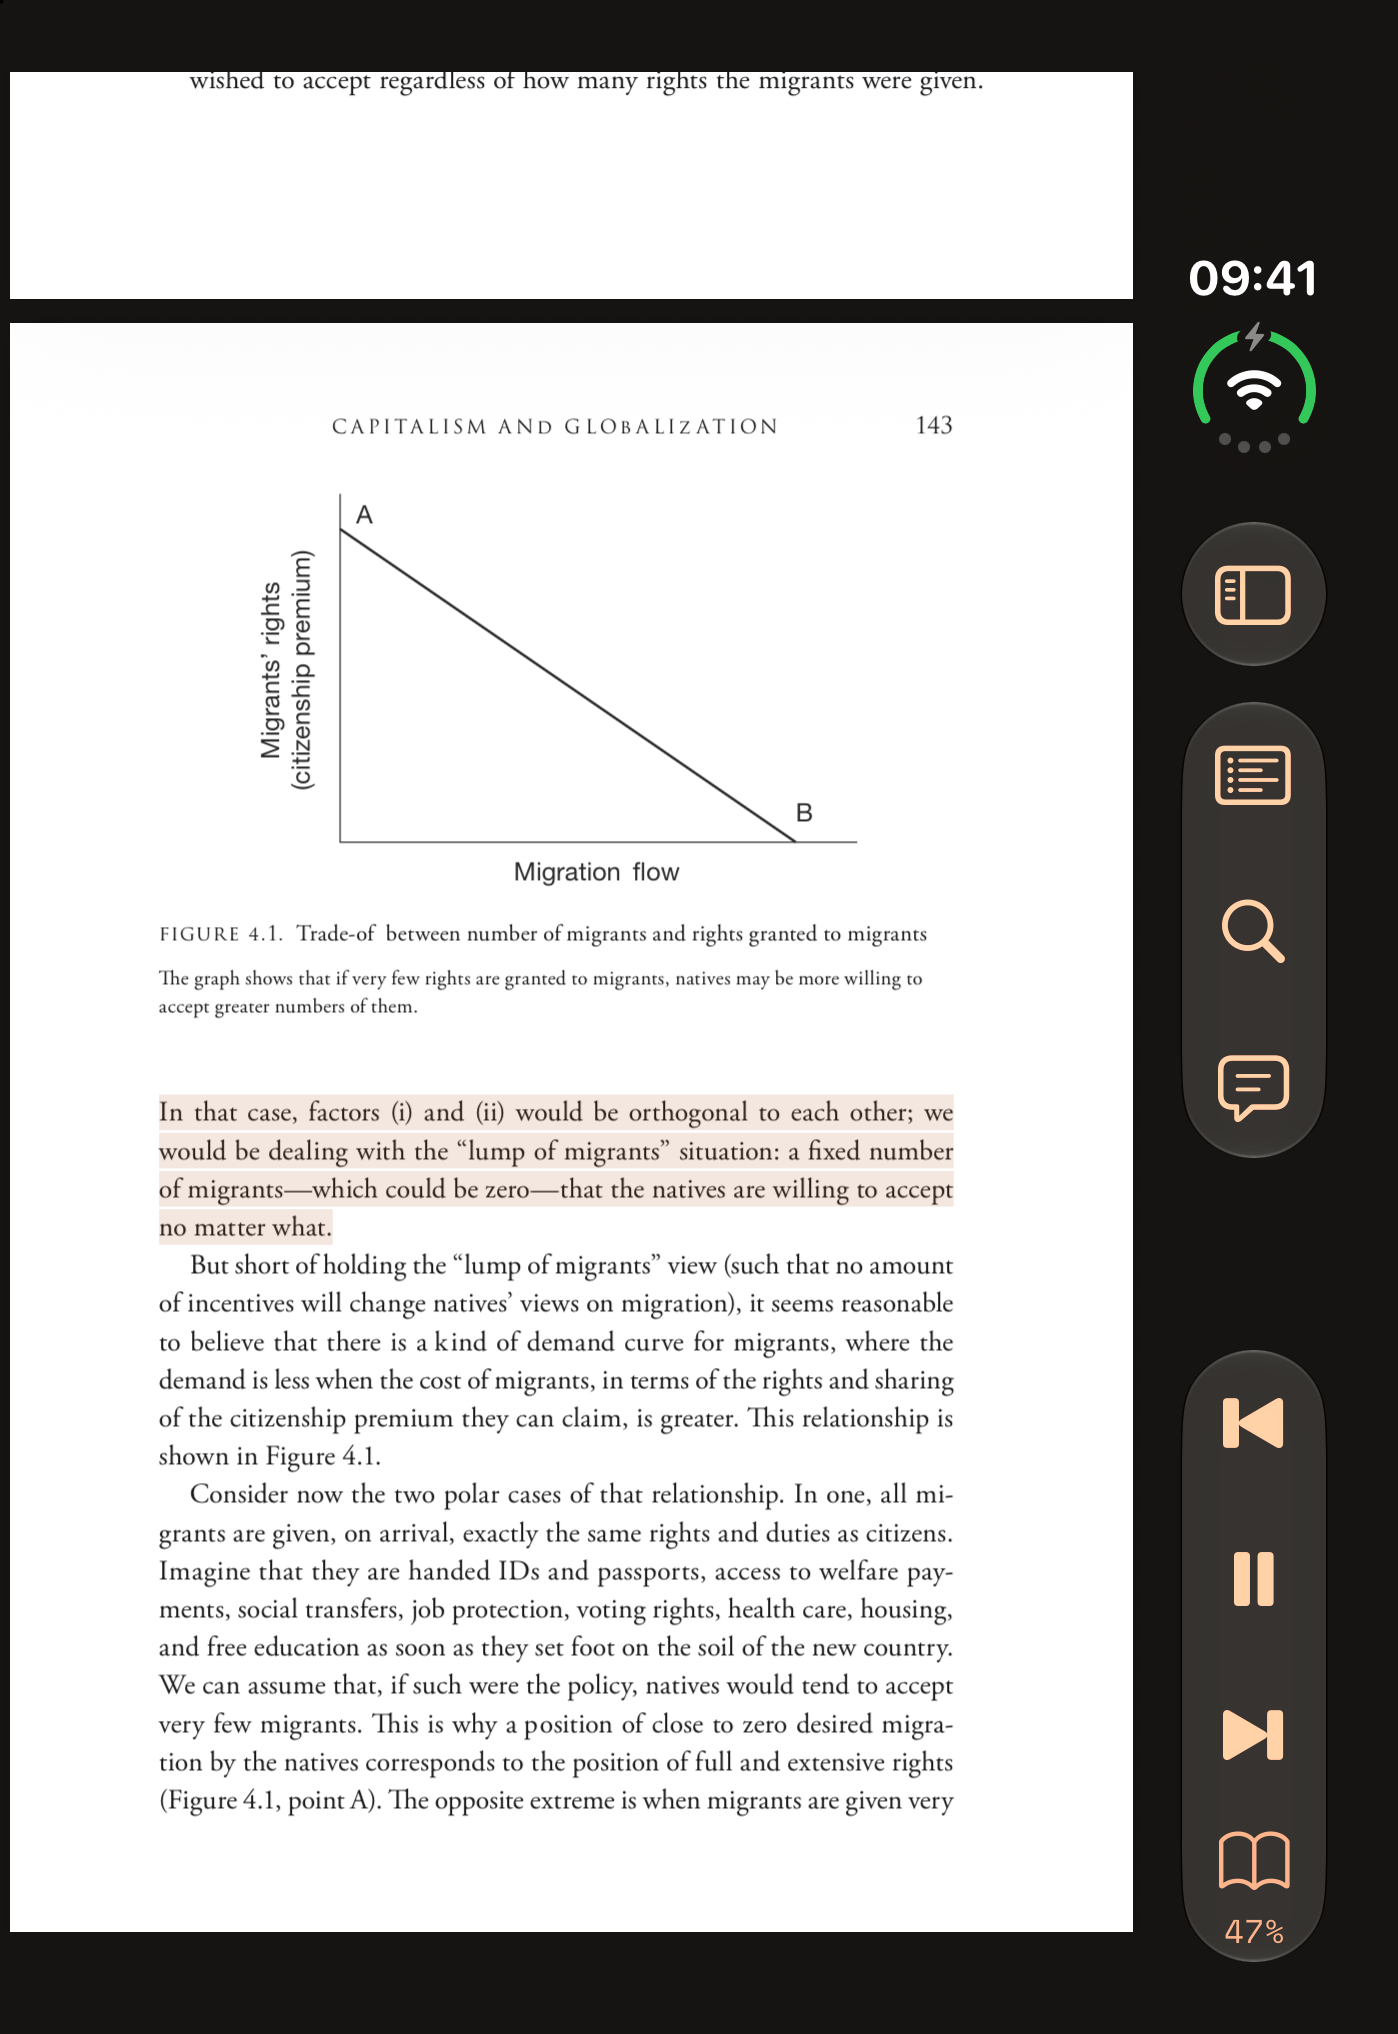
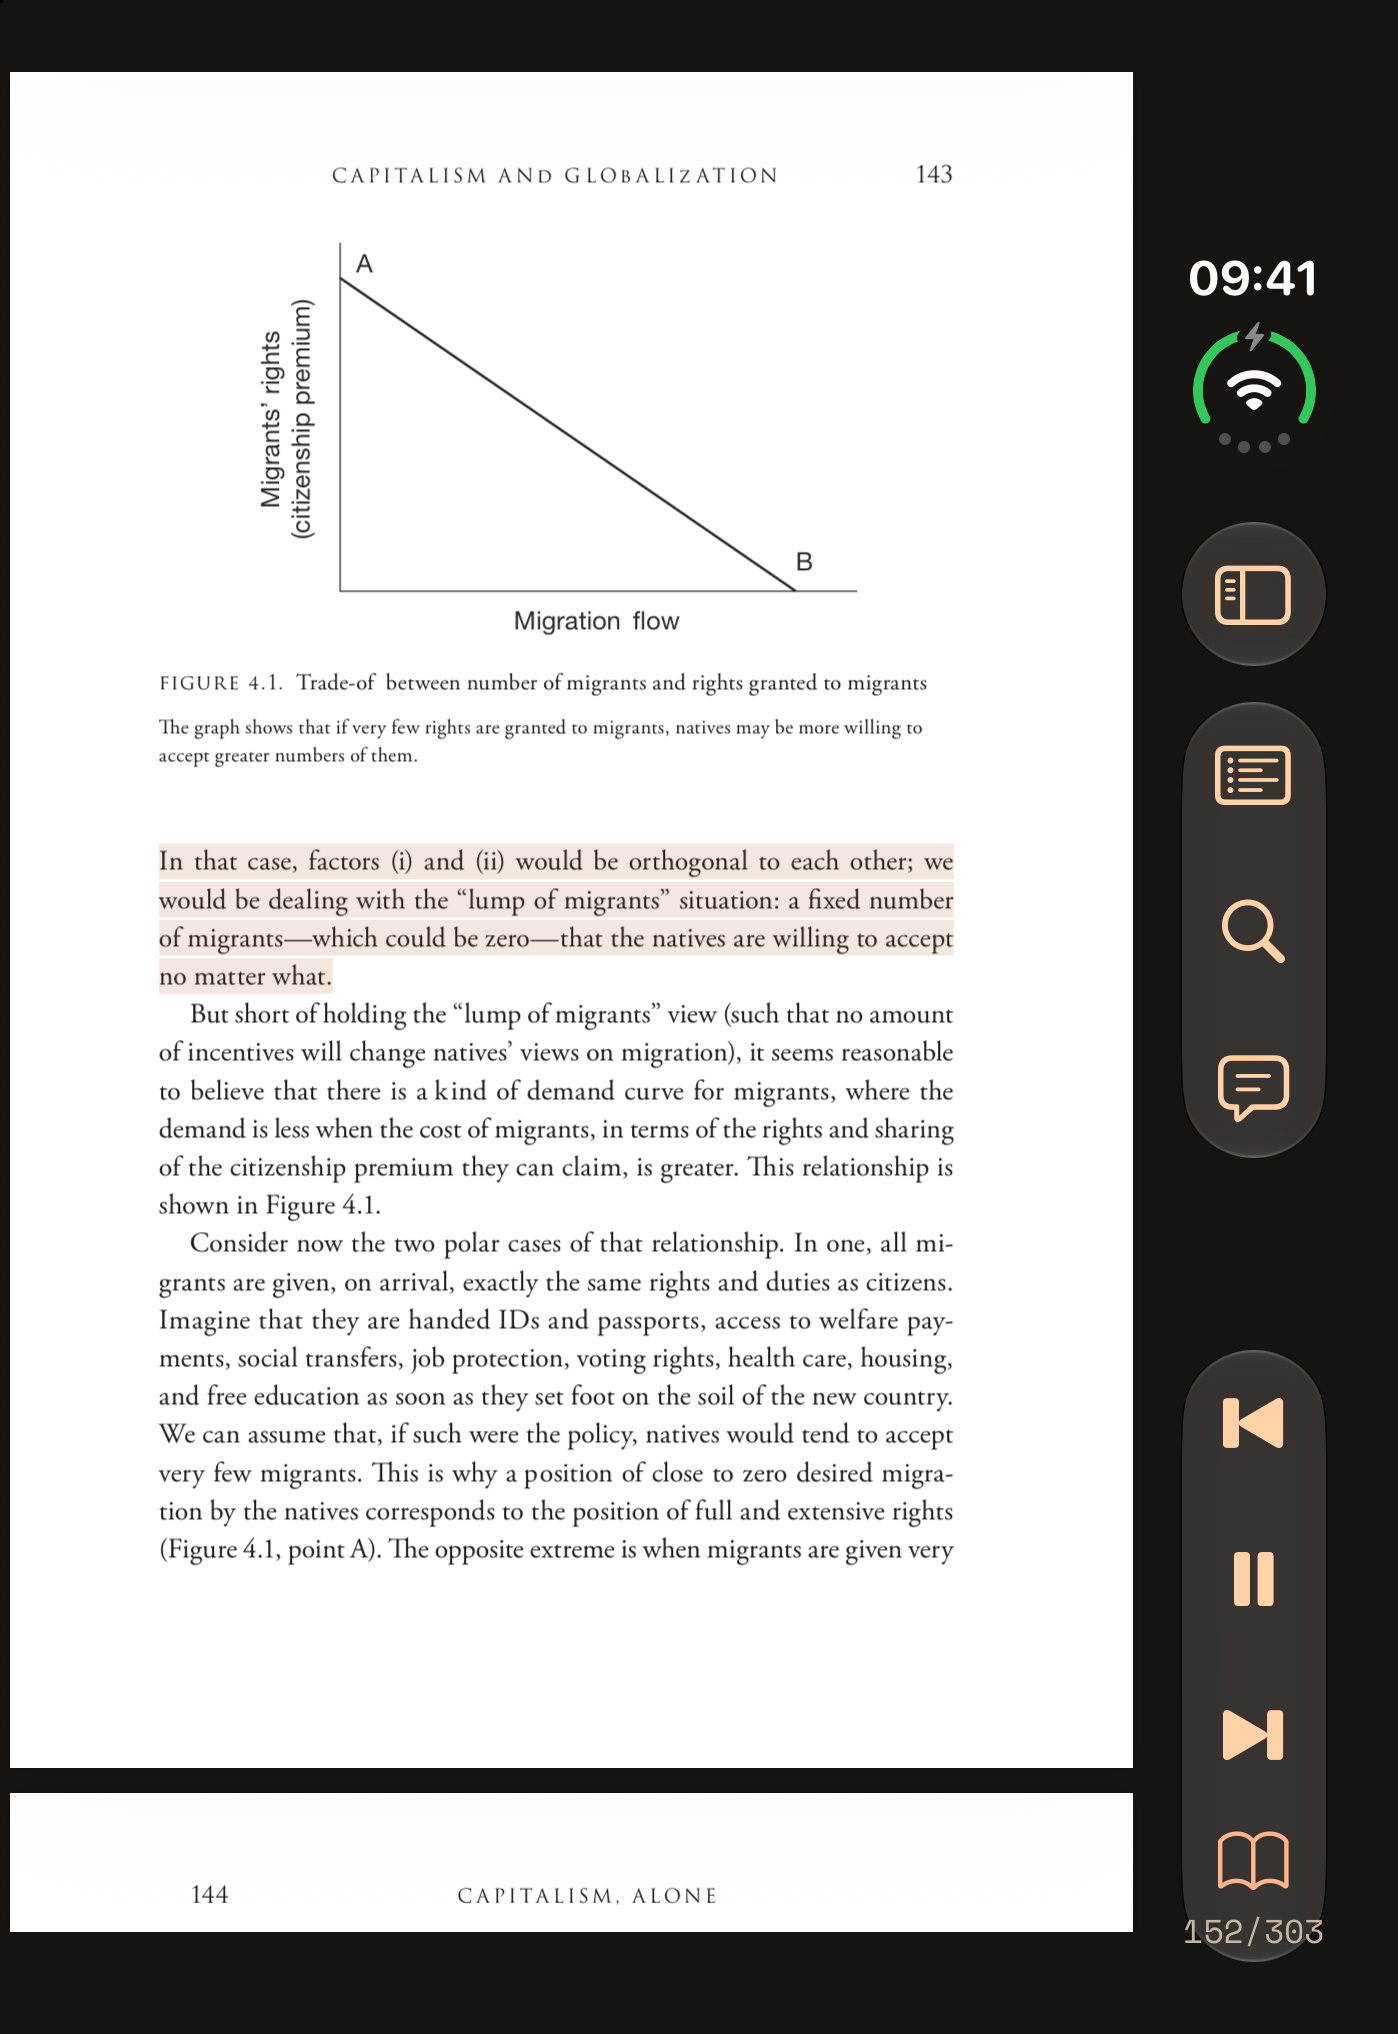
Refresh Duo screenshots with visible page indicators

diff --git a/README.md b/README.md
@@ -11,12 +11,6 @@ A listening-first PDF reader for Android and iOS. Listen with downloaded voices,
 
 ## Screenshots
 
-| Reader · light | Reader · dark |
-| --- | --- |
-| <a href="docs/screenshots/ios-reader-light.png"><img src="docs/screenshots/ios-reader-light.png" width="320" alt="Rhapsodos in light mode, showing Alice in Wonderland with narration highlighting and playback controls"></a> | <a href="docs/screenshots/ios-reader-dark.png"><img src="docs/screenshots/ios-reader-dark.png" width="320" alt="Rhapsodos in dark mode, showing the same original PDF page with narration highlighting and playback controls"></a> |
-
-Actual iOS app captures with narration highlighting, using a typeset public-domain excerpt from [Alice's Adventures in Wonderland](https://www.gutenberg.org/ebooks/11). The PDF retains its original page colours in both themes. Select an image to view it at full resolution.
-
 | Duo folded · portrait light | Duo folded · portrait dark |
 | --- | --- |
 | <a href="docs/screenshots/ios-duo-folded-reader-light.png"><img src="docs/screenshots/ios-duo-folded-reader-light.png" width="320" alt="Rhapsodos on folded iPhone Duo in light portrait mode, reading midway through Capitalism, Alone"></a> | <a href="docs/screenshots/ios-duo-folded-reader-dark.png"><img src="docs/screenshots/ios-duo-folded-reader-dark.png" width="320" alt="Rhapsodos on folded iPhone Duo in dark portrait mode with narration highlighting and playback controls"></a> |
@@ -33,7 +27,7 @@ Actual iOS app captures with narration highlighting, using a typeset public-doma
 | --- | --- |
 | <a href="docs/screenshots/ios-duo-landscape-light.png"><img src="docs/screenshots/ios-duo-landscape-light.png" width="480" alt="Rhapsodos in landscape on iPhone Duo with navigation and playback in the native side rail"></a> | <a href="docs/screenshots/ios-duo-landscape-dark.png"><img src="docs/screenshots/ios-duo-landscape-dark.png" width="480" alt="Rhapsodos in dark landscape on iPhone Duo with its original PDF and native side rail"></a> |
 
-iPhone Duo simulator captures of mid-book reading in *Capitalism, Alone* by Branko Milanovic. Navigation and playback use the native side rail on the folded display and in unfolded landscape. Unfolded portrait keeps the bottom player. The book/progress button opens speed, volume, seeking and document details.
+iPhone Duo simulator captures of mid-book reading in *Capitalism, Alone* by Branko Milanovic. Navigation and playback use the native side rail on the folded display and in unfolded landscape. Unfolded portrait keeps the bottom player. The book/page button opens speed, volume and document details. A small page/total label follows the visible PDF page.
 
 ## Run the apps
 
